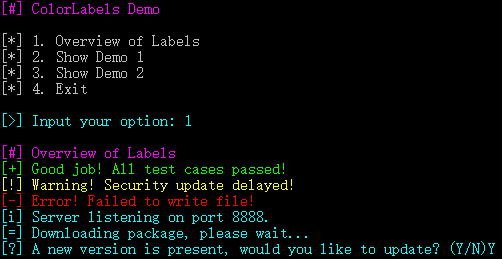
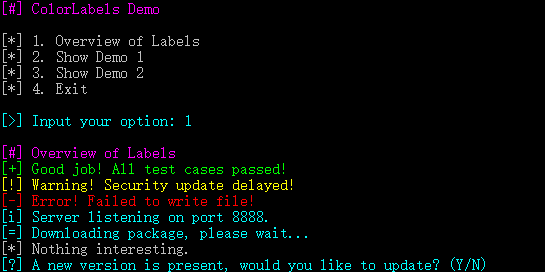
Add plain label

diff --git a/colorlabels.py b/colorlabels.py
@@ -31,7 +31,7 @@ COLOR_RESET = color_code(0) # Reset color settings in console.
 COLOR_NONE = '' # Does not change color.
 
 # Names of all labels.
-all_labels = ('section', 'item', 'success', 'warning', 'error', 'info', 'progress', 'question', 'input', 'password')
+all_labels = ('section', 'item', 'success', 'warning', 'error', 'info', 'progress', 'plain', 'question', 'input', 'password')
 
 # Default colors for each kind of label.
 default_section_color = BRIGHT_MAGENTA
@@ -41,6 +41,7 @@ default_warning_color = BRIGHT_YELLOW
 default_error_color = BRIGHT_RED
 default_info_color = BRIGHT_CYAN
 default_progress_color = BRIGHT_CYAN
+default_plain_color = COLOR_NONE
 default_question_color = BRIGHT_CYAN
 default_input_color = BRIGHT_CYAN
 default_password_color = BRIGHT_CYAN
@@ -65,6 +66,7 @@ default_warning_mark = '!'
 default_error_mark = '-'
 default_info_mark = 'i'
 default_progress_mark = '='
+default_plain_mark = '*'
 default_question_mark = '?'
 default_input_mark = '>'
 default_password_mark = '>'
@@ -265,6 +267,16 @@ def progress(msg, **kwargs):
 
     color = _layered_choice(kwargs.get('color'), custom_progress_color, default_progress_color)
     mark = _layered_choice(kwargs.get('mark'), custom_progress_mark, default_progress_mark)
+    _dict_remove_key_if_present(kwargs, 'color')
+    _dict_remove_key_if_present(kwargs, 'mark')
+
+    _print_label(color, mark, msg, **kwargs)
+
+def plain(msg, **kwargs):
+    '''Display a plain label.'''
+
+    color = _layered_choice(kwargs.get('color'), custom_plain_color, default_plain_color)
+    mark = _layered_choice(kwargs.get('mark'), custom_plain_mark, default_plain_mark)
     _dict_remove_key_if_present(kwargs, 'color')
     _dict_remove_key_if_present(kwargs, 'mark')
 

diff --git a/setup.py b/setup.py
@@ -2,7 +2,7 @@ from setuptools import setup
 
 setup(
     name='colorlabels',
-    version='0.2.1',
+    version='0.3.0',
     description='Provides semantic and colorful labels in console. Designed for message display and interaction in automated scripts.',
     long_description='For more information, goto https://github.com/gousaiyang/colorlabels.',
     url='https://github.com/gousaiyang/colorlabels',
@@ -10,7 +10,7 @@ setup(
     author_email='gousaiyang223@gmail.com',
     license='MIT',
     classifiers=[
-        'Development Status :: 4 - Beta',
+        'Development Status :: 5 - Production/Stable',
         'Environment :: Console',
         'Intended Audience :: Developers',
         'License :: OSI Approved :: MIT License',

diff --git a/demo.py b/demo.py
@@ -28,6 +28,7 @@ def overview():
     cl.error('Error! Failed to write file!')
     cl.info('Server listening on port 8888.')
     cl.progress('Downloading package, please wait...')
+    cl.plain('Nothing interesting.')
     cl.question('A new version is present, would you like to update? (Y/N)')
 
 def demo1():
@@ -94,7 +95,7 @@ def main():
             elif option == 3:
                 demo2()
             else:
-                cl.info('Bye!')
+                cl.plain('Bye!')
                 break
 
             print()

diff --git a/README.md b/README.md
@@ -11,6 +11,7 @@ cl.warning('Warning! Security update delayed!')
 cl.error('Error! Failed to write file!')
 cl.info('Server listening on port 8888.')
 cl.progress('Downloading package, please wait...')
+cl.plain('Nothing interesting.')
 choice = cl.question('A new version is present, would you like to update? (Y/N)')
 ```
 
